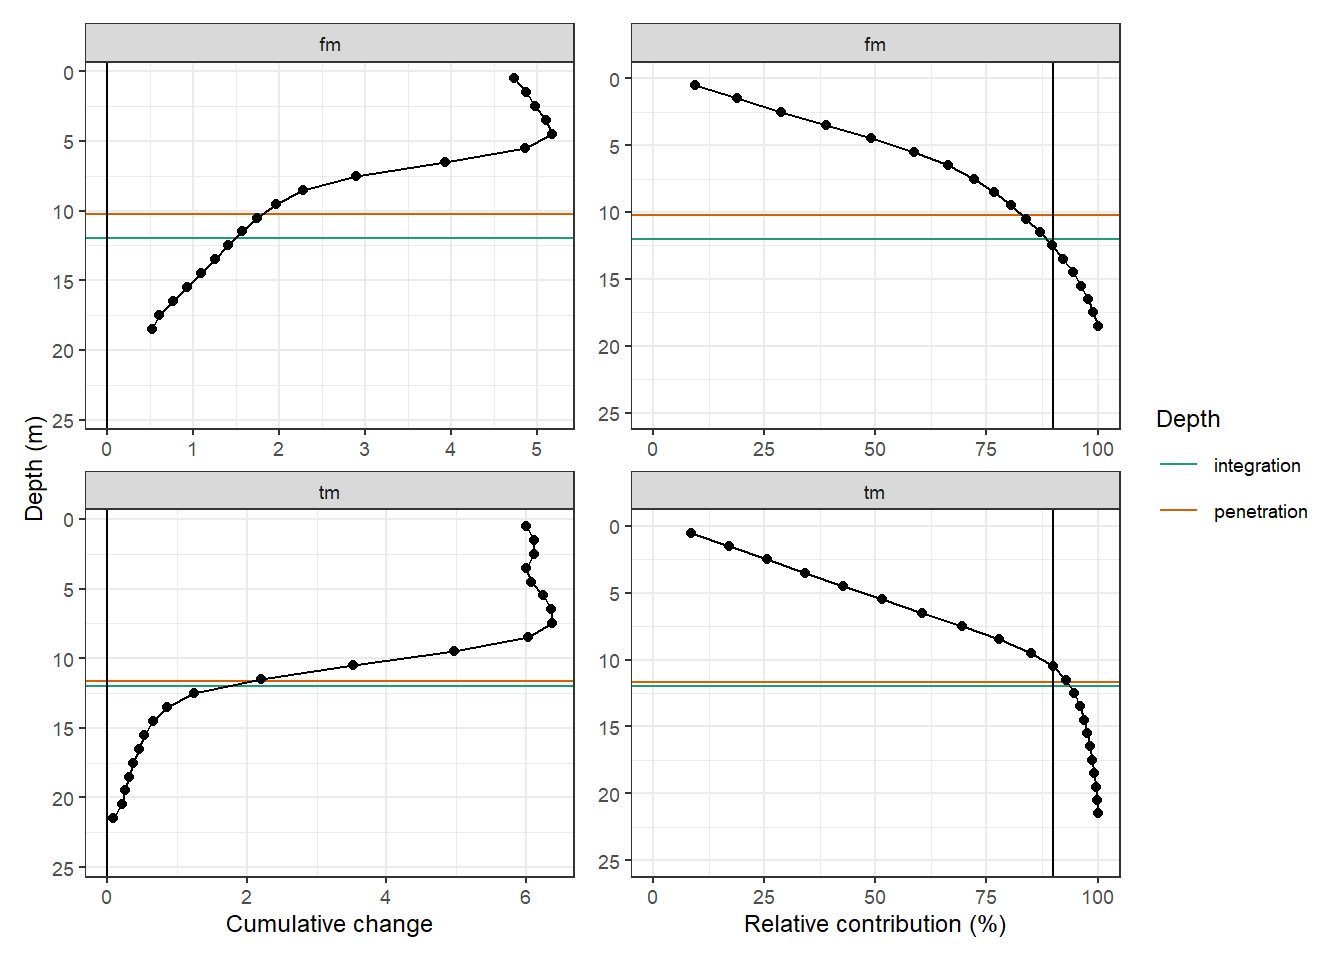
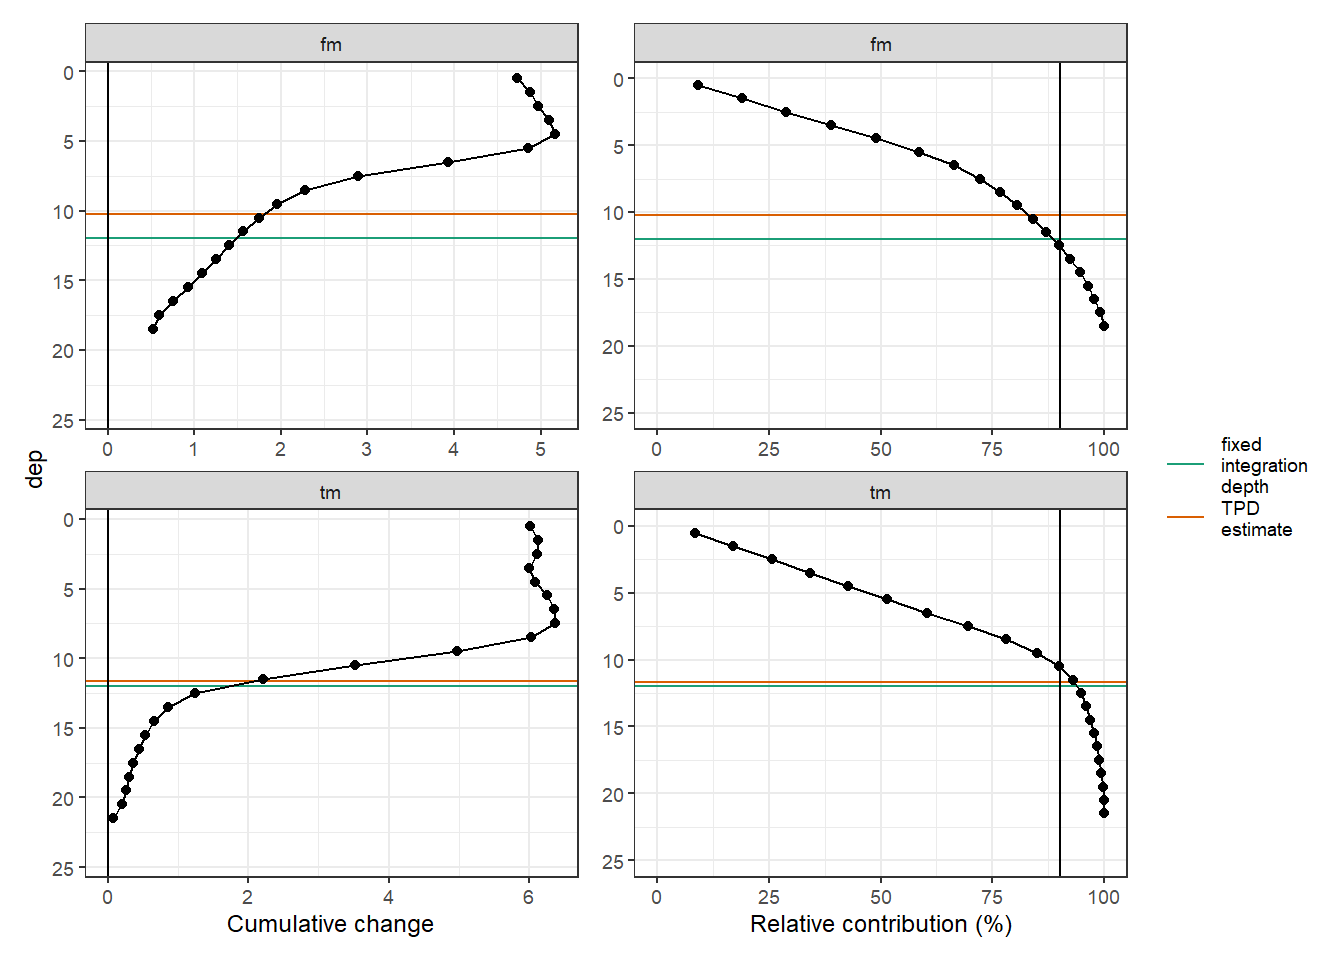
Build site.

diff --git a/docs/NCP_reconstruction.html b/docs/NCP_reconstruction.html
@@ -565,16 +565,16 @@ This reproducible <a href="http://rmarkdown.rstudio.com">R Markdown</a> analysis
 <div class="panel panel-default">
 <div class="panel-heading">
 <p class="panel-title">
-<a data-toggle="collapse" data-parent="#workflowr-checks" href="#strongRepositoryversionstrongahrefhttpsgithubcomjensdanielmuellerBloomSailtreec909ee0946f5856ddfd55ce67bd0bdd4e220bd8etargetblankc909ee0a"> <span class="glyphicon glyphicon-ok text-success" aria-hidden="true"></span> <strong>Repository version:</strong> <a href="https://github.com/jens-daniel-mueller/BloomSail/tree/c909ee0946f5856ddfd55ce67bd0bdd4e220bd8e" target="_blank">c909ee0</a> </a>
+<a data-toggle="collapse" data-parent="#workflowr-checks" href="#strongRepositoryversionstrongahrefhttpsgithubcomjensdanielmuellerBloomSailtree54ddb867d1fbd52a82879857ddb5b8f08b03c57atargetblank54ddb86a"> <span class="glyphicon glyphicon-ok text-success" aria-hidden="true"></span> <strong>Repository version:</strong> <a href="https://github.com/jens-daniel-mueller/BloomSail/tree/54ddb867d1fbd52a82879857ddb5b8f08b03c57a" target="_blank">54ddb86</a> </a>
 </p>
 </div>
[2 lines of base64/hex data omitted]
 <div class="panel-body">
 <p>
 Great! You are using Git for version control. Tracking code development and connecting the code version to the results is critical for reproducibility.
 </p>
 <p>
-The results in this page were generated with repository version <a href="https://github.com/jens-daniel-mueller/BloomSail/tree/c909ee0946f5856ddfd55ce67bd0bdd4e220bd8e" target="_blank">c909ee0</a>. See the <em>Past versions</em> tab to see a history of the changes made to the R Markdown and HTML files.
+The results in this page were generated with repository version <a href="https://github.com/jens-daniel-mueller/BloomSail/tree/54ddb867d1fbd52a82879857ddb5b8f08b03c57a" target="_blank">54ddb86</a>. See the <em>Past versions</em> tab to see a history of the changes made to the R Markdown and HTML files.
 </p>
 <p>
 Note that you need to be careful to ensure that all relevant files for the analysis have been committed to Git prior to generating the results (you can use <code>wflow_publish</code> or <code>wflow_git_commit</code>). workflowr only checks the R Markdown file, but you know if there are other scripts or data files that it depends on. Below is the status of the Git repository when the results were generated:
@@ -585,17 +585,6 @@ Ignored files:
     Ignored:    .Rproj.user/
     Ignored:    data/
     Ignored:    output/Plots/Figures_publication/.tmp.drivedownload/
-
-Unstaged changes:
-    Modified:   output/Plots/Figures_publication/Appendix/Fig_B1.pdf
-    Modified:   output/Plots/Figures_publication/Appendix/Fig_C1.pdf
-    Modified:   output/Plots/Figures_publication/Appendix/Fig_C2.pdf
-    Modified:   output/Plots/Figures_publication/Appendix/Fig_C3.pdf
-    Modified:   output/Plots/Figures_publication/Article/Fig_1.pdf
-    Modified:   output/Plots/Figures_publication/Article/Fig_2.pdf
-    Modified:   output/Plots/Figures_publication/Article/Fig_3.pdf
-    Modified:   output/Plots/Figures_publication/Article/Fig_4.pdf
-    Modified:   output/Plots/Figures_publication/Article/Fig_5.pdf
 
 </code></pre>
 <p>
@@ -634,6 +623,40 @@ Message
 </tr>
 </thead>
 <tbody>
+<tr>
+<td>
+Rmd
+</td>
+<td>
+<a href="https://github.com/jens-daniel-mueller/BloomSail/blob/54ddb867d1fbd52a82879857ddb5b8f08b03c57a/analysis/NCP_reconstruction.Rmd" target="_blank">54ddb86</a>
+</td>
+<td>
+jens-daniel-mueller
+</td>
+<td>
+2021-02-18
+</td>
+<td>
+cleaning
+</td>
+</tr>
+<tr>
+<td>
+html
+</td>
+<td>
+<a href="https://rawcdn.githack.com/jens-daniel-mueller/BloomSail/3d08cdad926ee8878280a92372842a92b2bbf1d3/docs/NCP_reconstruction.html" target="_blank">3d08cda</a>
+</td>
+<td>
+jens-daniel-mueller
+</td>
+<td>
+2021-02-18
+</td>
+<td>
+Build site.
+</td>
+</tr>
 <tr>
 <td>
 Rmd
@@ -3238,9 +3261,14 @@ rm(MLD_mean)</code></pre>
   ) %&gt;%
   ungroup()
 
+# select only temperature data
 tm_fm_gt_long &lt;- tm_fm_gt_long %&gt;%
   filter(var == &quot;tem&quot;) %&gt;%
   select(-var)</code></pre>
+</div>
+<div id="cumulative-temperature-profile" class="section level3" number="6.2.2">
+<h3 number="6.2.2"><span class="header-section-number">6.2.2</span> Cumulative temperature profile</h3>
+<p>Please note that the cumulative temperature profile of GETM shows a deep maximum below 20m, which must be attributed to water mass exchange rather than surface warming to radiation or heat uptake, which we want to capture here. Therefore, the integration depth of the GETM data was manually restricted to 19m.</p>
 <pre class="r"><code>tm_fm_gt_long %&gt;%
   filter(date_time_ID == date_CT_min) %&gt;%
   arrange(dep) %&gt;%
@@ -3250,23 +3278,32 @@ tm_fm_gt_long &lt;- tm_fm_gt_long %&gt;%
   geom_point() +
   geom_path() +
   scale_y_reverse() +
-  labs(y = &quot;Depth (m)&quot;, x = &quot;Cumulative change&quot;) +
+  labs(x = &quot;Cumulative tem change&quot;,
+       title = as.Date(date_CT_min)) +
   theme(legend.position = &quot;left&quot;) +
   facet_grid(. ~ source, scales = &quot;free_x&quot;)</code></pre>
-<p><img src="figure/NCP_reconstruction.Rmd/cumulative_tem_profile-1.png" width="672" style="display: block; margin: auto;" /></p>
+<div class="figure" style="text-align: center">
+<img src="figure/NCP_reconstruction.Rmd/cumulative_tem_profile-1.png" alt="Profiles of cumulative temperature changes from the GETM model (label fm) and as measured in the field (label tm)." width="672" />
+<p class="caption">
+Profiles of cumulative temperature changes from the GETM model (label fm) and as measured in the field (label tm).
+</p>
 </div>
-<div id="cumulative-changes" class="section level3" number="6.2.2">
-<h3 number="6.2.2"><span class="header-section-number">6.2.2</span> Cumulative changes</h3>
-<pre class="r"><code>tm_fm_gt_long_180723 &lt;- tm_fm_gt_long %&gt;%
+</div>
+<div id="calculate-cumulative-changes" class="section level3" number="6.2.3">
+<h3 number="6.2.3"><span class="header-section-number">6.2.3</span> Calculate cumulative changes</h3>
+<pre class="r"><code># subset data at CT* minimum
+tm_fm_gt_long_day &lt;- tm_fm_gt_long %&gt;%
   filter(date_time_ID == date_CT_min) %&gt;%
   mutate(
     value_cum = if_else(value_cum &lt; 0,
                         NaN, value_cum),
-    value_cum = if_else(source == &quot;fm&quot; &amp; dep &gt; parameters$getm_i_dep,
+    value_cum = if_else(source == &quot;fm&quot; &amp;
+                          dep &gt; parameters$getm_i_dep,
                         NaN, value_cum)
   )
 
-tm_fm_gt_long_180723_dep &lt;- tm_fm_gt_long_180723 %&gt;%
+# integrate cumulative changes
+tm_fm_gt_long_day_dep &lt;- tm_fm_gt_long_day %&gt;%
   select(source, dep, value_cum) %&gt;%
   group_by(source) %&gt;%
   arrange(dep) %&gt;%
@@ -3277,49 +3314,52 @@ tm_fm_gt_long_180723_dep &lt;- tm_fm_gt_long_180723 %&gt;%
   ) %&gt;%
   ungroup()
 
-value_cum &lt;- tm_fm_gt_long_180723_dep %&gt;%
+# extract integrated cumulative value
+value_cum &lt;- tm_fm_gt_long_day_dep %&gt;%
   group_by(source) %&gt;%
   summarise(value_cum_i = mean(value_cum_i)) %&gt;%
   ungroup()
 
-value_surface &lt;- tm_fm_gt_long_180723 %&gt;%
+# extract surface cumulative value
+value_surface &lt;- tm_fm_gt_long_day %&gt;%
   select(source, dep, value_cum) %&gt;%
   filter(dep &lt; parameters$surface_dep) %&gt;%
   group_by(source) %&gt;%
   summarise(value_surface = mean(value_cum)) %&gt;%
   ungroup()
 
+# calculate TPD
 TPD &lt;- full_join(value_cum, value_surface)
 TPD &lt;- TPD %&gt;%
   mutate(i_dep = value_cum_i / value_surface)
 
 rm(value_cum, value_surface)</code></pre>
 </div>
-<div id="cumulative-on-july-23" class="section level3" number="6.2.3">
-<h3 number="6.2.3"><span class="header-section-number">6.2.3</span> Cumulative on July 23</h3>
-<pre class="r"><code>p_tm_fm_gt_long &lt;- tm_fm_gt_long_180723 %&gt;%
+<div id="cumulative-profiles-july-24" class="section level3" number="6.2.4">
+<h3 number="6.2.4"><span class="header-section-number">6.2.4</span> Cumulative profiles July 24</h3>
+<pre class="r"><code>p_tm_fm_gt_long &lt;- tm_fm_gt_long_day %&gt;%
   arrange(dep) %&gt;%
   ggplot(aes(value_cum, dep)) +
-  geom_hline(aes(yintercept = parameters$i_dep_lim, col = &quot;integration&quot;)) +
-  geom_hline(data = TPD, aes(yintercept = i_dep, col = &quot;penetration&quot;)) +
+  geom_hline(aes(yintercept = parameters$i_dep_lim, col = &quot;fixed\nintegration\ndepth&quot;)) +
+  geom_hline(data = TPD, aes(yintercept = i_dep, col = &quot;TPD\nestimate&quot;)) +
   geom_vline(xintercept = 0) +
   geom_point() +
   geom_path() +
   scale_y_reverse() +
   scale_color_brewer(palette = &quot;Dark2&quot;, guide = FALSE) +
-  labs(y = &quot;Depth (m)&quot;, x = &quot;Cumulative change&quot;) +
+  labs(x = &quot;Cumulative change&quot;) +
   theme(legend.position = &quot;left&quot;) +
   facet_wrap(. ~ source, ncol = 1, scales = &quot;free_x&quot;)
 
-p_tm_fm_gt_long_rel &lt;- tm_fm_gt_long_180723_dep %&gt;%
+p_tm_fm_gt_long_rel &lt;- tm_fm_gt_long_day_dep %&gt;%
   ggplot(aes(value_cum_i_rel, dep)) +
-  geom_hline(aes(yintercept = parameters$i_dep_lim, col = &quot;integration&quot;)) +
-  geom_hline(data = TPD, aes(yintercept = i_dep, col = &quot;penetration&quot;)) +
+  geom_hline(aes(yintercept = parameters$i_dep_lim, col = &quot;fixed\nintegration\ndepth&quot;)) +
+  geom_hline(data = TPD, aes(yintercept = i_dep, col = &quot;TPD\nestimate&quot;)) +
   geom_vline(xintercept = 90) +
   geom_point() +
   geom_line() +
   scale_y_reverse(limits = c(25, 0)) +
-  scale_color_brewer(palette = &quot;Dark2&quot;, name = &quot;Depth&quot;) +
+  scale_color_brewer(palette = &quot;Dark2&quot;, name = &quot;&quot;) +
   scale_x_continuous(limits = c(0, NA)) +
   labs(x = &quot;Relative contribution (%)&quot;) +
   facet_wrap(. ~ source, ncol = 1, scales = &quot;free_x&quot;) +
@@ -3328,8 +3368,8 @@ p_tm_fm_gt_long_rel &lt;- tm_fm_gt_long_180723_dep %&gt;%
 p_tm_fm_gt_long + p_tm_fm_gt_long_rel</code></pre>
 <p><img src="figure/NCP_reconstruction.Rmd/TPD_cumulative_profiles_180723-1.png" width="672" style="display: block; margin: auto;" /></p>
 <pre class="r"><code>rm(
-  tm_fm_gt_long_180723,
-  tm_fm_gt_long_180723_dep,
+  tm_fm_gt_long_day,
+  tm_fm_gt_long_day_dep,
   p_tm_fm_gt_long,
   p_tm_fm_gt_long_rel
 )
@@ -3338,9 +3378,9 @@ TPD_cum &lt;- TPD
 
 rm(TPD)</code></pre>
 </div>
-<div id="daily" class="section level3" number="6.2.4">
-<h3 number="6.2.4"><span class="header-section-number">6.2.4</span> Daily</h3>
-<pre class="r"><code># surface values
+<div id="calculate-incremental-tpd" class="section level3" number="6.2.5">
+<h3 number="6.2.5"><span class="header-section-number">6.2.5</span> Calculate incremental TPD</h3>
+<pre class="r"><code># incremental changes of surface values
 diff_surface &lt;- tm_fm_gt_long %&gt;%
   filter(dep &lt; parameters$surface_dep) %&gt;%
   group_by(date_time_ID, source) %&gt;%
@@ -3353,7 +3393,6 @@ tm_fm_gt_long &lt;- full_join(tm_fm_gt_long, diff_surface)
 rm(diff_surface)
 
 # calculate penetration depths
-
 TPD &lt;- tm_fm_gt_long %&gt;%
   mutate(
     value_diff = if_else(value_diff &lt; 0,
@@ -3369,6 +3408,7 @@ TPD &lt;- tm_fm_gt_long %&gt;%
   ungroup() %&gt;%
   mutate(i_dep = value_diff_int / value_diff_surface)
 
+# calculate mean TPD across bloom period
 TPD_mean &lt;- TPD %&gt;%
   filter(date_time_ID &lt;= date_CT_min) %&gt;%
   group_by(source) %&gt;%
@@ -3604,10 +3644,6 @@ p_CT_star &lt;- iCT %&gt;%
     plot.margin = margin(0, 0, 0, 0, &quot;cm&quot;)
   )
 
-# iCT &lt;- iCT %&gt;%
-#   mutate(i_res = fct_recode(i_res, `cumulative` = &quot;cum&quot;)) %&gt;%
-#   mutate(i_res = factor(i_res, c(&quot;mean&quot;, &quot;cumulative&quot;, &quot;daily&quot;)))
-
 p_iCT &lt;- iCT %&gt;%
   ggplot() +
   geom_hline(yintercept = 0) +
@@ -3635,27 +3671,6 @@ p_iCT &lt;- iCT %&gt;%
 
 p_CT_star / p_hov_dep / p_iCT</code></pre>
 <p><img src="figure/NCP_reconstruction.Rmd/iCT_time_series-1.png" width="672" style="display: block; margin: auto;" /></p>
-<pre class="r"><code># ggsave(
-#   here::here(
-#     &quot;output/Plots/Figures_publication/article&quot;,
-#     &quot;reconstruction_iCT_timeseries.pdf&quot;
-#   ),
-#   width = 190,
-#   height = 200,
-#   dpi = 300,
-#   units = &quot;mm&quot;
-# )
-# 
-# ggsave(
-#   here::here(
-#     &quot;output/Plots/Figures_publication/article&quot;,
-#     &quot;reconstruction_iCT_timeseries.png&quot;
-#   ),
-#   width = 190,
-#   height = 200,
-#   dpi = 300,
-#   units = &quot;mm&quot;
-# )</code></pre>
 <pre class="r"><code>NCP_flux &lt;- NCP_flux %&gt;%
   mutate(i_res = factor(i_res, c(&quot;mean&quot;, &quot;cumulative&quot;, &quot;daily&quot;)))
 
